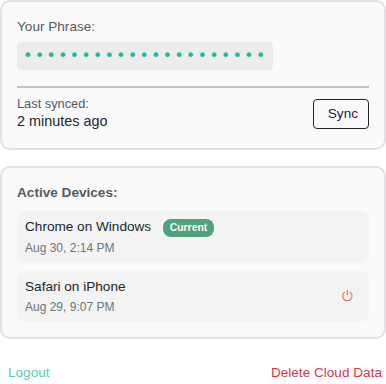
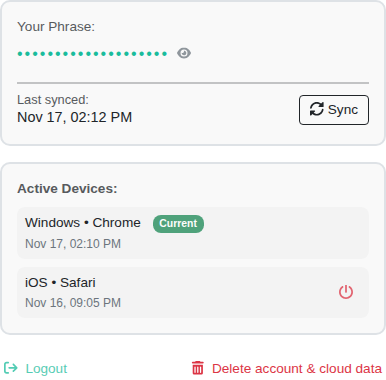
Docs audit, first half (owner 2026-11-17): 11 user pages against prod, EN and RU - app (offline library without the old size, iPhone shortcuts and Control Center), PWA (how to install where the browser has no button), extension (Dharmamitra (New Window), Edge Add-ons), login (on-screen button names;
Claude-Session: https://claude.ai/code/session_01DcgqysE8dq8EHEQLgnPGH5

diff --git a/i18n/ru/docusaurus-plugin-content-docs/current/user/dhamma-gift-app.md b/i18n/ru/docusaurus-plugin-content-docs/current/user/dhamma-gift-app.md
@@ -24,8 +24,8 @@ import MsStore from '@site/static/img/buttons/msstore-cta.png';
 
 ## Офлайн-библиотека
 
-Скачайте библиотеку один раз (около 216 МБ) — и всё работает в режиме
-полёта: поиск, оглавление, все тексты с переводами и словарь. Голоса тоже
+Скачайте библиотеку один раз — и всё работает в режиме полёта: поиск,
+оглавление, тексты с переводами и словарь. Голоса тоже
 можно скачать, и чтение вслух работает без интернета ([Озвучка](/tts)). Загрузка
 идёт в фоне и при заблокированном экране. Пока библиотеки нет, приложение
 работает онлайн, как сайт. Удалить её можно в любой момент: Настройки →
@@ -51,15 +51,16 @@ import MsStore from '@site/static/img/buttons/msstore-cta.png';
 - **Ярлыки на иконке.** Долгое нажатие на иконку приложения. На Android:
   избранное и история, а также либо 3 последних текста, либо оглавление,
   Memo и словарь (Настройки → «Недавние тексты в ярлыках»). На iPhone:
-  избранное и история, оглавление, Memo и словарь; те же действия
-  доступны Siri и приложению «Команды».
+  избранное и история и 3 последних текста; Siri и приложение «Команды»
+  открывают Dhamma.Gift, раздел (оглавление, Memo, словарь…) или поиск.
 - **В меню выделенного текста.** Выделите текст в любом приложении, и
   пункт Dhamma.Gift в меню выделения откроет поиск. *Android.*
 - **Поиск телефона.** В системном поиске Android Dhamma.Gift предлагается
   как место для поиска: запрос открывается поиском в приложении. Недавно
   прочитанные тексты тоже видны там. *Android.*
-- **Быстрые настройки.** Кнопка Dhamma.Gift в шторке уведомлений: одно
-  касание откуда угодно, офлайн. *Android.*
+- **Быстрые настройки и Пункт управления.** Кнопка Dhamma.Gift в шторке
+  уведомлений на Android и в Пункте управления на iPhone: одно касание
+  откуда угодно, офлайн.
 - **Плеер на экране блокировки.** Пока текст читается вслух, его плеер
   виден в шторке уведомлений и на экране блокировки. *Android.*
 - **Ссылки открываются в приложении.** Ссылка dhamma.gift в мессенджере

diff --git a/i18n/ru/docusaurus-plugin-content-docs/current/user/multitool.md b/i18n/ru/docusaurus-plugin-content-docs/current/user/multitool.md
@@ -56,7 +56,7 @@ import EditTile from '@site/static/img/help/multitool-edit-tile.png';
 - **Добавить свою кнопку** — своя ссылка с полями: **Подпись** (до 24
   символов), **Адрес** (в него можно вставить `{{q}}` — вместо него
   подставится текущий запрос из поля поиска), **Описание** (необязательно,
-  всплывающая подсказка) и **Значок** — выбрать из готового набора иконок
+  строка под названием кнопки) и **Значок** — выбрать из готового набора иконок
   или ввести свой эмодзи:
 
   <img src={EditTile} alt="Форма редактирования кнопки: подпись, адрес, описание, значок" style={{maxWidth: 'min(480px, 100%)', display: 'block', margin: '0 auto 1.5rem'}} />
@@ -79,7 +79,7 @@ import EditTile from '@site/static/img/help/multitool-edit-tile.png';
   если есть что возвращать (что-то скрыто, порядок изменён или добавлены
   свои кнопки). Возвращает
   исходный набор и порядок кнопок; если есть свои добавленные кнопки, они
-  при этом удаляются насовсем (проект заранее предупреждает и просит
+  при этом удаляются насовсем (DG заранее предупреждает и просит
   подтверждения — вернуть их обратно неоткуда).
 
 Свои кнопки, правки, эмодзи-значки и порядок кнопок в облако не
@@ -91,7 +91,7 @@ import EditTile from '@site/static/img/help/multitool-edit-tile.png';
 Каждая кнопка вроде «Иностранные», «ИИ, Словари» или «Обучение» открывает
 список ссылок по теме. У некоторых из них уже стоит золотая звёздочка —
 это редакционный выбор проекта. Долгое нажатие (на телефоне) или правый
-клик (на компьютере) по любой ссылке в этом списке ставит или снимает
+клик (на компьютере) по значку слева от ссылки в этом списке ставит или снимает
 звёздочку лично для вас, поверх редакционной — например, можно убрать
 звезду с пункта, который вам не нужен, или отметить свой любимый ресурс.
 Эти личные отметки тоже хранятся только в этом браузере, не в Облаке.

diff --git a/i18n/ru/docusaurus-plugin-content-docs/current/user/login.md b/i18n/ru/docusaurus-plugin-content-docs/current/user/login.md
@@ -10,15 +10,15 @@ import LoginSynced from '@site/static/img/help/login-synced.png';
 
 # Вход
 
-Для Dhamma.gift не нужен аккаунт или email. «Вход» здесь означает
+Для Dhamma.Gift не нужен аккаунт или email. «Вход» здесь означает
 облачную синхронизацию избранного, истории, подписок, прогресса чтения и
 настроек между устройствами — тремя способами:
 
 - **Google** — обычный вход через аккаунт Google.
 - **Apple** — «Вход с Apple», через ваш Apple ID. Apple позволяет скрыть
   email — тогда мы получаем от Apple только анонимный адрес для пересылки.
-- **Секретная фраза** — полностью анонимно: задайте фразу минимум из 8
-  символов (без email и пароля). Любой, кто введёт ту же фразу на другом
+- **Секретная фраза** — полностью анонимно: введите фразу минимум из 8
+  символов и нажмите **Анонимный вход** (без email и пароля). Любой, кто введёт ту же фразу на другом
   устройстве, получит доступ к тем же синхронизированным данным —
   относитесь к ней как к паролю.
 
@@ -29,9 +29,9 @@ import LoginSynced from '@site/static/img/help/login-synced.png';
 Входя (любым способом) на устройстве, где уже накопилась своя история или
 избранное, вы увидите выбор:
 
-- **Объединить** — оставить то, что накоплено на этом устройстве, и
+- **Объединить (Merge)** — оставить то, что накоплено на этом устройстве, и
   добавить к этому данные из облака.
-- **Заменить** — стереть данные с этого устройства и скачать копию из
+- **Заменить из облака (Overwrite)** — стереть данные с этого устройства и скачать копию из
   облака вместо них.
 
 ## После входа

diff --git a/docs/user/translator.md b/docs/user/translator.md
@@ -21,7 +21,8 @@ This is a demo with SN 56.11 and an existing translation loaded; saving does not
 
 The editor opens for everyone: the Pali text and the published translations. Saving to the server, and
 loading the AI draft translations into the Russian editor, are for translators: sign in with Google
-(**🔒 Sign in**, or the Save button asks for it).
+(the sign-in icon at the end of the top bar; without it, **Save** still downloads
+the file and says “Sign in with Google first.”).
 
 ## Toolbar
 
@@ -50,8 +51,8 @@ A two-column table (Text | Translation) — each row is edited separately.
 
 - Click a cell — edit it.
 - The 🔗 icon — jump to this row in quick-entry mode.
-- **↑ / ←** — move to the cell above.
-- **↓ / →** — move to the cell below.
+- **↑ / ←** at the start of a cell — move to the cell above.
+- **↓ / →** at the end of a cell — move to the cell below.
 - **Enter** — add an empty row, or wrap text onto a new row.
 - **Ctrl+Enter** — move text to the start of the next row.
 - **Backspace** at the start of a row — merge with the previous row.
@@ -62,9 +63,9 @@ A two-column table (Text | Translation) — each row is edited separately.
 One large text field — the whole translation at once, synced live with
 the table.
 
-- **Ctrl+Q** — select a range of rows and merge them into one.
-- **Ctrl+F / Ctrl+H** — search/replace (same escaping as the toolbar's
-  find/replace, for `()`/`[]`).
+- **Ctrl+Q** (or the button after Find/Replace) — select a range of rows and merge them into one.
+- **Ctrl+Shift+F / Ctrl+Shift+H** — open Find/Replace (same escaping for
+  `()`/`[]`).
 
 ## Quick templates
 
@@ -75,7 +76,8 @@ Truths formula, full and short), **n8p** / **n8p short** (the Noble
 Eightfold Path), **Thus said…** (a sutta's closing formula), plus an
 em-dash, curly quotes, and an inverted question mark for punctuation.
 
-## Settings
+## File name
 
-Your translator name (used in the filename when saving) and a toggle to
-replace `+edited+o` in the filename with `o` — for final versions.
+**Save** names the file by the text and the translator
+(`sn56.11_translation-en-thanissaro.json`); the **tr. o** checkbox next to
+**Format** puts `o` in place of the translator — for final versions.

diff --git a/docs/user/dhamma-gift-app.md b/docs/user/dhamma-gift-app.md
@@ -24,9 +24,9 @@ account needed.
 
 ## Offline library
 
-Download the whole library once (about 216 MB) and everything works in
-airplane mode: search, the table of contents, every text with its
-translations, and the dictionary. Voices can be downloaded too, so reading
+Download the library once and everything works in airplane mode: search,
+the table of contents, the texts with their translations, and the
+dictionary. Voices can be downloaded too, so reading
 aloud also works offline ([Voice](/tts)). The download keeps going in the
 background and with the screen locked. Until then the app works online,
 exactly like the site. The library can be deleted any time: Settings →
@@ -51,15 +51,17 @@ aloud ([Voice](/tts)).
 - **Shortcuts on the icon.** A long press on the app icon. On Android:
   favorites & history, plus either your 3 most recent texts or Contents,
   Memo and Dictionary (Settings → Recent texts in app shortcuts). On
-  iPhone: favorites & history, Contents, Memo and Dictionary; the same
-  actions are available to Siri and the Shortcuts app.
+  iPhone: favorites & history and your 3 most recent texts; Siri and the
+  Shortcuts app can open Dhamma.Gift, a section (Contents, Memo,
+  Dictionary…) or a search.
 - **In the text-selection menu.** Select text in any app, and
   Dhamma.Gift in the selection menu opens the search. *Android.*
 - **The phone's own search.** In Android's system search Dhamma.Gift is
   offered as a place to search: the query opens as a search in the app. The
   texts you read recently show up there too. *Android.*
-- **Quick Settings.** A Dhamma.Gift button in the notification shade: one
-  tap from anywhere, offline. *Android.*
+- **Quick Settings and Control Center.** A Dhamma.Gift button in the
+  notification shade on Android and in Control Center on iPhone: one tap
+  from anywhere, offline.
 - **Player on the lock screen.** While a text is read aloud, its player is
   in the notification shade and on the lock screen. *Android.*
 - **Links open in the app.** A dhamma.gift link tapped in a messenger or in

diff --git a/docs/user/multitool.md b/docs/user/multitool.md
@@ -56,7 +56,7 @@ the bottom, under "Settings":
 - **Add your own button** — your own link with fields for **Label** (up
   to 24 characters), **Address** (you can drop `{{q}}` into it — it gets
   replaced with whatever's currently in the search box), **Description**
-  (optional, shown as a tooltip), and an **Icon** — pick one from the
+  (optional, a line under the button label), and an **Icon** — pick one from the
   built-in set or type your own emoji:
 
   <img src={EditTile} alt="Button edit form: label, address, description, icon" style={{maxWidth: 'min(480px, 100%)', display: 'block', margin: '0 auto 1.5rem'}} />
@@ -79,8 +79,8 @@ the bottom, under "Settings":
 - **Reset buttons** — this option only shows up in the "Settings" menu
   when there's something to reset (something hidden, the order changed,
   or buttons of your own added). It brings back the original set and order of tiles; if you've
-  added tiles of your own, those get deleted for good in the process (the
-  app warns you and asks for confirmation first — there's no way to bring
+  added tiles of your own, those get deleted for good in the process (DG
+  warns you and asks for confirmation first — there's no way to bring
   them back afterward).
 
 Your own buttons, edits, custom emoji icons and the tile order are NOT
@@ -91,7 +91,7 @@ synced to the Cloud — they stay purely local to this particular browser.
 Each tile like "External", "AI & Dicts" or "Materials" opens a list of
 links on that topic. Some of them already carry a gold star — the
 project's own editorial pick. A long-press (on phones) or right-click (on
-desktop) on any link in that list toggles a star for you personally, on
+desktop) on the icon to the left of a link in that list toggles a star for you personally, on
 top of the editorial one — say, to remove a star from something you
 don't care for, or mark your own favorite resource. These personal marks
 are also stored only in this browser, not in the Cloud.

diff --git a/i18n/ru/docusaurus-plugin-content-docs/current/user/hotkeys.md b/i18n/ru/docusaurus-plugin-content-docs/current/user/hotkeys.md
@@ -46,7 +46,7 @@ import AppFrame from '@site/src/components/AppFrame';
 |---|---|
 | **Ctrl+→** / **Ctrl+←** | Следующий / предыдущий текст |
 | **Alt+Shift+1** … **Alt+Shift+4** | Режимы ридера: «Читать», «Сравнить», «Для запоминания», «Деванагари» |
-| **Alt+Z** | Показать / скрыть второй язык (пали или перевод) |
+| **Alt+Z** | Языки по кругу: пали и перевод → только пали → только перевод |
 | **Alt+C** | Одна или две колонки |
 | **Alt+V** | Показать / скрыть варианты чтения |
 | **Alt+W** | Оглавление текста |
@@ -60,6 +60,7 @@ import AppFrame from '@site/src/components/AppFrame';
 | Сочетание | Что делает |
 |---|---|
 | **Shift+Пробел** | Раскрыть / свернуть все результаты |
+| **Alt+Z** | Языки по кругу: пали и перевод → только пали → только перевод |
 | **Alt+R** | Прочитать результаты вслух |
 
 ## Словарь
@@ -82,7 +83,7 @@ import AppFrame from '@site/src/components/AppFrame';
 | **←** / **→** (или **↑** / **↓**) | Предыдущая / следующая строка (при включённой автопрокрутке) |
 | **1** … **4** | Что читать: пали · пали и перевод · перевод · перевод и пали |
 | **−** / **+** | Медленнее / быстрее (шаг 0.05) |
-| **R** | Обычная скорость |
+| **R** | Скорость по умолчанию |
 
 :::note
 В текстовом поле **Ctrl+←/→** и **/** работают как обычно (переход по словам, ввод косой черты) —

diff --git a/i18n/ru/docusaurus-plugin-content-docs/current/user/quickmodal.md b/i18n/ru/docusaurus-plugin-content-docs/current/user/quickmodal.md
@@ -22,6 +22,7 @@ import AppFrame from '@site/src/components/AppFrame';
 Каждую вкладку можно открыть прямо отсюда, одним кликом:
 
 - <a href="#" onClick={(e) => { e.preventDefault(); window.dgOpenQuickModal && window.dgOpenQuickModal('tab-fav'); }}>☆ + История</a>
+- <a href="#" onClick={(e) => { e.preventDefault(); window.dgOpenQuickModal && window.dgOpenQuickModal('tab-subs'); }}>Подписки</a>
 - <a href="#" onClick={(e) => { e.preventDefault(); window.dgOpenQuickModal && window.dgOpenQuickModal('tab-4as'); }}>4AS</a>
 - <a href="#" onClick={(e) => { e.preventDefault(); window.dgOpenQuickModal && window.dgOpenQuickModal('tab-memo'); }}>Memo</a>
 - <a href="#" onClick={(e) => { e.preventDefault(); window.dgOpenQuickModal && window.dgOpenQuickModal('tab-dpd'); }}>Словарь</a>
@@ -36,8 +37,9 @@ import AppFrame from '@site/src/components/AppFrame';
 
 ## Вкладки
 
-- **☆ + История** — ваши закладки и история поиска в одном списке.
-  Сортировка по алфавиту или по дате (значок ⇅), переименование и удаление
+- **☆ + История** — ваши закладки (Избранное) и История поиска на
+  одной вкладке. Сортировка каждого списка по алфавиту или по дате
+  (значок ⇅), переименование и удаление
   закладок, скрытие отдельных записей истории. Внизу ссылка **«Вся
   история →»** открывает полную страницу истории.
 

diff --git a/docs/user/browser-extension.md b/docs/user/browser-extension.md
@@ -15,7 +15,7 @@ word or phrase (or just click on a word) and the extension shows the
 dictionary entry right there, without leaving the page.
 
 In the extension's settings, pick where the result opens: Side Panel (the
-default), New Window, Popup, Compact, Dharmamitra, GoldenDict-NG, DictTango
+default), New Window, Popup, Compact, Dharmamitra (New Window), GoldenDict-NG, DictTango
 App, MDict (macOS) or a Custom URL. The default language is set there too
 (English or Русский).
 
@@ -31,7 +31,7 @@ settings.
 <div style={{display: 'flex', flexWrap: 'wrap', gap: '12px', alignItems: 'center', margin: '1rem 0'}}>
   <a href="https://chromewebstore.google.com/detail/dhammagift-search-and-wor/dnnogjdcmhbiobpnkhdbfnfjnjlikabd"><img src="/assets/img/buttons/chrome-cta.png" alt="Chrome Web Store" style={{maxWidth: '180px'}} /></a>
   <a href="https://addons.mozilla.org/en-US/firefox/addon/dhamma-gift/"><img src="/assets/img/buttons/firefox-cta.png" alt="Firefox Add-ons" style={{maxWidth: '180px'}} /></a>
-  <a href="https://microsoftedge.microsoft.com/addons/detail/dhammagift-search-and-wo/aokegkhdaijkikbdocanadeghllhfmhj"><img src="/assets/img/buttons/edge-cta.png" alt="Microsoft Edge Store" style={{maxWidth: '180px'}} /></a>
+  <a href="https://microsoftedge.microsoft.com/addons/detail/dhammagift-search-and-wo/aokegkhdaijkikbdocanadeghllhfmhj"><img src="/assets/img/buttons/edge-cta.png" alt="Microsoft Edge Add-ons" style={{maxWidth: '180px'}} /></a>
   <a href="https://chromewebstore.google.com/detail/dhammagift-search-and-wor/dnnogjdcmhbiobpnkhdbfnfjnjlikabd"><img src="/assets/img/buttons/opera-cta.png" alt="Opera: install from the Chrome Web Store" style={{maxWidth: '180px'}} /></a>
 </div>
 

diff --git a/docs/user/login.md b/docs/user/login.md
@@ -10,15 +10,15 @@ import LoginSynced from '@site/static/img/help/login-synced-en.png';
 
 # Login
 
-Dhamma.gift doesn't need an account or an email address. "Login" here
+Dhamma.Gift doesn't need an account or an email address. "Login" here
 means cloud sync of your favorites, history, subscriptions, reading
 progress and settings across devices — three ways to do it:
 
 - **Google** — a regular Google account sign-in.
 - **Apple** — Sign in with Apple, with your Apple ID. Apple may let you
   hide your e-mail; we then only get a private relay address from Apple.
-- **Secret passphrase** — fully anonymous: pick a phrase of at least 8
-  characters (no email, no password). Anyone who types the same phrase on
+- **Secret Passphrase** — fully anonymous: type a phrase of at least 8
+  characters and press **Anonymous Login** (no email, no password). Anyone who types the same phrase on
   another device gets access to the same synced data — treat it like a
   password.
 
@@ -29,9 +29,9 @@ progress and settings across devices — three ways to do it:
 Logging in (either way) on a device that already has its own history or
 favorites shows a choice:
 
-- **Merge** — keep what's already on this device and add the cloud data
+- **Merge Data** — keep what's already on this device and add the cloud data
   on top of it.
-- **Overwrite** — wipe this device's data and pull down the cloud copy
+- **Overwrite from Cloud** — wipe this device's data and pull down the cloud copy
   instead.
 
 ## After logging in
